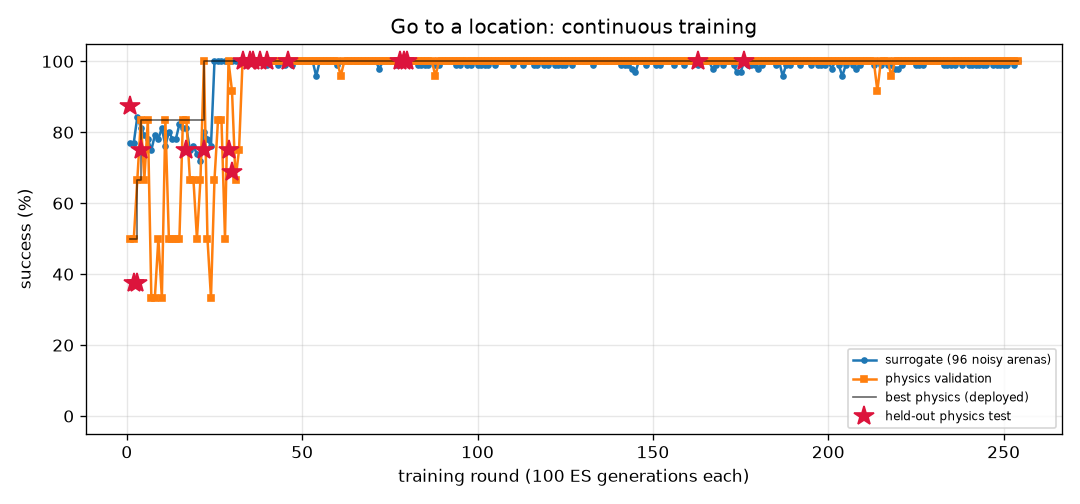
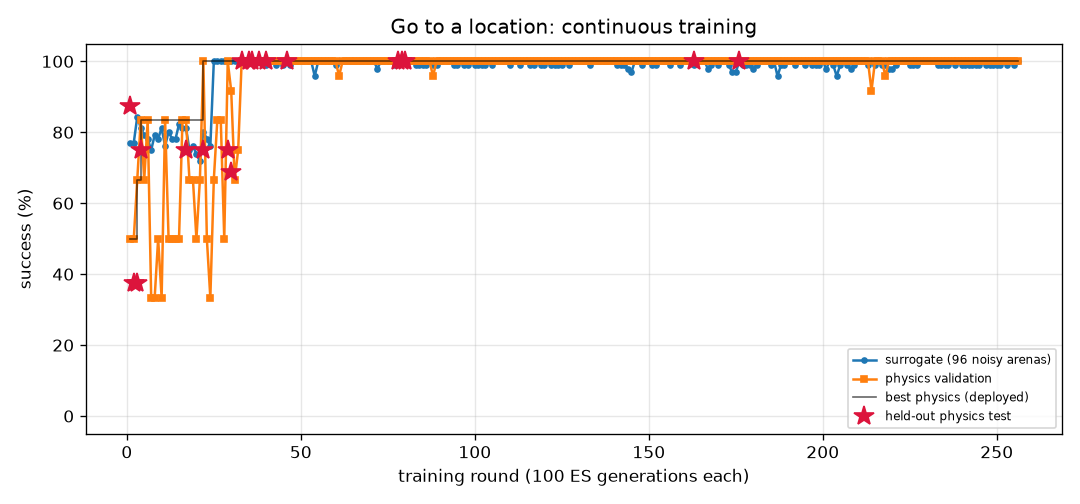
FlyLab: continuous training progress
- walk_forward: optimal, physics val 100% of 24, round 318
- turn: optimal, physics val 100% of 24, round 912
- goto: optimal, physics val 100% of 24, round 256
- odor_seek: optimal, physics val 100% of 24, round 208
- odor_avoid: optimal, physics val 100% of 24, round 822
- light_seek: optimal, physics val 100% of 24, round 451
- light_avoid: optimal, physics val 100% of 24, round 554

diff --git a/projects/09_flylab/training/walk_forward/REPORT.md b/projects/09_flylab/training/walk_forward/REPORT.md
@@ -1,14 +1,14 @@
 # Walk forward (`walk_forward`) — training report
 
-*Auto-generated by `train_brains.py`, last updated 2026-11-07T15:44:13.*
+*Auto-generated by `train_brains.py`, last updated 2026-11-07T19:57:10.*
 
 ![curve](curve.png)
 
 | | |
 |---|---|
-| rounds | 314 |
-| ES generations | 31400 |
-| physics runs | 7550 |
+| rounds | 318 |
+| ES generations | 31800 |
+| physics runs | 7646 |
 | status | **optimal** |
 | best brain | round 116: physics validation **100%** on 24 arenas, surrogate 100% |
 | held-out physics test | **100%** on 32 unseen arenas (95% CI 89%-100%) (errors: [0.13, 0.16, 0.19, 0.16, 0.15, 0.2, 0.17, 0.18, 0.17, 0.19, 0.2, 0.14, 0.17, 0.19, 0.2, 0.2, 0.13, 0.19, 0.16, 0.2, 0.2, 0.16, 0.17, 0.2, 0.13, 0.15, 0.18, 0.14, 0.16, 0.15, 0.19, 0.12]) |
@@ -17,10 +17,6 @@ Physics error per arena: mm from target at the end (< 1.5 and standing still = s
 
 | round | level | gens | sigma | surrogate | physics val | val errors | test | note |
 |---:|---:|---:|---:|---:|---:|---|---:|---|
-| 275 | 3 | 27500 | 0.024 | 100% | 100% | [0.27, 0.27, 0.2, 0.26, 0.27, 0.18, 0.26, 0.24, 0.27, 0.24, 0.17, 0.21, 0.23, 0.18, 0.27, 0.22, 0.26, 0.27, 0.24, 0.27, 0.25, 0.23, 0.2, 0.23] |  |  |
-| 276 | 3 | 27600 | 0.024 | 100% | 100% | [0.05, 0.1, 0.09, 0.08, 0.09, 0.08, 0.05, 0.07, 0.11, 0.16, 0.1, 0.13, 0.1, 0.1, 0.11, 0.13, 0.22, 0.1, 0.27, 0.09, 0.05, 0.11, 0.15, 0.09] |  | restart from best |
-| 277 | 3 | 27700 | 0.024 | 100% | 100% | [0.19, 0.18, 0.16, 0.19, 0.18, 0.14, 0.18, 0.17, 0.18, 0.17, 0.06, 0.14, 0.17, 0.15, 0.19, 0.15, 0.18, 0.18, 0.18, 0.19, 0.18, 0.17, 0.14, 0.18] |  |  |
-| 278 | 3 | 27800 | 0.024 | 100% | 100% | [0.27, 0.29, 0.23, 0.27, 0.29, 0.23, 0.29, 0.25, 0.28, 0.28, 0.22, 0.26, 0.25, 0.23, 0.28, 0.26, 0.27, 0.28, 0.25, 0.28, 0.26, 0.28, 0.26, 0.24] |  |  |
 | 279 | 3 | 27900 | 0.024 | 100% | 100% | [0.14, 0.1, 0.05, 0.12, 0.11, 0.08, 0.12, 0.06, 0.1, 0.06, 0.07, 0.09, 0.09, 0.08, 0.08, 0.13, 0.08, 0.15, 0.06, 0.07, 0.06, 0.11, 0.13, 0.06] |  |  |
 | 280 | 3 | 28000 | 0.024 | 100% | 100% | [0.15, 0.16, 0.13, 0.15, 0.16, 0.14, 0.17, 0.14, 0.17, 0.18, 0.14, 0.2, 0.14, 0.13, 0.15, 0.19, 0.15, 0.16, 0.13, 0.16, 0.14, 0.19, 0.19, 0.14] |  | restart from best |
 | 281 | 3 | 28100 | 0.024 | 99% | 96% | [0.06, 0.15, 0.03, 0.07, 0.15, 0.11, 0.17, 0.21, 0.16, 0.21, 0.07, 0.25, 0.12, 0.01, 0.05, 0.23, 0.05, 0.17, 0.18, 0.09, 0.21, 0.25, 0.27, 0.03] |  |  |
@@ -57,3 +53,7 @@ Physics error per arena: mm from target at the end (< 1.5 and standing still = s
 | 312 | 3 | 31200 | 0.024 | 100% | 100% | [0.27, 0.41, 0.14, 0.27, 0.41, 0.07, 0.43, 0.25, 0.45, 0.48, 0.12, 0.48, 0.24, 0.09, 0.28, 0.47, 0.26, 0.34, 0.24, 0.32, 0.25, 0.49, 0.47, 0.25] |  | restart from best |
 | 313 | 3 | 31300 | 0.024 | 100% | 92% | [0.1, 0.14, 0.19, 0.07, 0.14, 0.1, 0.24, 0.11, 0.13, 0.3, 0.12, 0.33, 0.1, 0.03, 0.08, 0.29, 0.04, 0.16, 0.07, 0.08, 0.06, 0.22, 0.24, 0.1] |  |  |
 | 314 | 3 | 31400 | 0.024 | 100% | 100% | [0.24, 0.23, 0.22, 0.24, 0.23, 0.22, 0.23, 0.23, 0.23, 0.22, 0.21, 0.21, 0.24, 0.22, 0.23, 0.21, 0.24, 0.23, 0.24, 0.23, 0.24, 0.22, 0.2, 0.24] |  |  |
+| 315 | 3 | 31500 | 0.024 | 100% | 100% | [0.23, 0.23, 0.18, 0.23, 0.23, 0.17, 0.23, 0.2, 0.23, 0.22, 0.17, 0.2, 0.2, 0.17, 0.24, 0.21, 0.23, 0.24, 0.2, 0.24, 0.21, 0.21, 0.2, 0.2] |  |  |
+| 316 | 3 | 31600 | 0.024 | 100% | 100% | [0.26, 0.34, 0.3, 0.26, 0.33, 0.31, 0.34, 0.29, 0.34, 0.37, 0.32, 0.38, 0.29, 0.31, 0.27, 0.38, 0.27, 0.3, 0.29, 0.28, 0.28, 0.37, 0.37, 0.29] |  | restart from best |
+| 317 | 3 | 31700 | 0.024 | 100% | 100% | [0.08, 0.13, 0.07, 0.08, 0.13, 0.07, 0.12, 0.13, 0.16, 0.21, 0.08, 0.15, 0.08, 0.06, 0.09, 0.23, 0.08, 0.15, 0.08, 0.15, 0.08, 0.17, 0.26, 0.08] |  |  |
+| 318 | 3 | 31800 | 0.024 | 99% | 100% | [0.24, 0.26, 0.18, 0.25, 0.26, 0.16, 0.26, 0.21, 0.26, 0.23, 0.15, 0.21, 0.21, 0.17, 0.25, 0.22, 0.24, 0.26, 0.22, 0.25, 0.23, 0.23, 0.21, 0.21] |  |  |

diff --git a/projects/09_flylab/training/goto/REPORT.md b/projects/09_flylab/training/goto/REPORT.md
@@ -1,14 +1,14 @@
 # Go to a location (`goto`) — training report
 
-*Auto-generated by `train_brains.py`, last updated 2026-11-07T17:03:13.*
+*Auto-generated by `train_brains.py`, last updated 2026-11-07T19:50:02.*
 
 ![curve](curve.png)
 
 | | |
 |---|---|
-| rounds | 254 |
-| ES generations | 25400 |
-| physics runs | 6046 |
+| rounds | 256 |
+| ES generations | 25600 |
+| physics runs | 6094 |
 | status | **optimal** |
 | best brain | round 176: physics validation **100%** on 24 arenas, surrogate 100% |
 | held-out physics test | **100%** on 32 unseen arenas (95% CI 89%-100%) (errors: [0.2, 0.32, 0.19, 0.24, 0.18, 0.2, 0.19, 0.17, 0.22, 0.23, 0.23, 0.26, 0.2, 0.19, 0.24, 0.23, 0.22, 0.24, 0.2, 0.22, 0.2, 0.2, 0.26, 0.19, 0.22, 0.18, 0.26, 0.22, 0.2, 0.26, 0.23, 0.23]) |
@@ -17,8 +17,6 @@ Physics error per arena: mm from target at the end (< 1.5 and standing still = s
 
 | round | level | gens | sigma | surrogate | physics val | val errors | test | note |
 |---:|---:|---:|---:|---:|---:|---|---:|---|
-| 215 | 3 | 21500 | 0.024 | 99% | 100% | [0.48, 0.45, 0.35, 0.43, 0.34, 0.39, 0.5, 0.42, 0.44, 0.36, 0.38, 0.41, 0.45, 0.32, 0.39, 0.38, 0.48, 0.38, 0.34, 0.45, 0.35, 0.38, 0.47, 0.41] |  |  |
-| 216 | 3 | 21600 | 0.025 | 100% | 100% | [0.5, 0.51, 0.49, 0.39, 0.38, 0.4, 0.52, 0.45, 0.45, 0.37, 0.36, 0.38, 0.47, 0.38, 0.42, 0.45, 0.5, 0.4, 0.35, 0.44, 0.44, 0.36, 0.49, 0.38] |  | restart from best |
 | 217 | 3 | 21700 | 0.024 | 99% | 100% | [0.52, 0.53, 0.55, 0.55, 0.41, 0.49, 0.55, 0.53, 0.54, 0.44, 0.44, 0.52, 0.53, 0.42, 0.42, 0.47, 0.56, 0.49, 0.42, 0.53, 0.43, 0.42, 0.55, 0.51] |  |  |
 | 218 | 3 | 21800 | 0.025 | 99% | 96% | [0.44, 0.38, 0.36, 0.27, 0.24, 0.29, 0.39, 0.3, 0.34, 0.24, 0.25, 0.27, 0.35, 0.6, 0.3, 0.26, 0.35, 0.35, 0.26, 0.34, 0.27, 0.12, 0.35, 0.27] |  |  |
 | 219 | 3 | 21900 | 0.025 | 98% | 100% | [0.64, 0.64, 0.7, 0.59, 0.57, 0.59, 0.66, 0.68, 0.67, 0.56, 0.57, 0.57, 0.7, 0.58, 0.59, 0.67, 0.7, 0.64, 0.56, 0.65, 0.67, 0.56, 0.69, 0.59] |  |  |
@@ -57,3 +55,5 @@ Physics error per arena: mm from target at the end (< 1.5 and standing still = s
 | 252 | 3 | 25200 | 0.025 | 100% | 100% | [0.56, 0.61, 0.6, 0.55, 0.55, 0.5, 0.58, 0.54, 0.56, 0.55, 0.52, 0.55, 0.62, 0.49, 0.65, 0.59, 0.62, 0.55, 0.54, 0.6, 0.55, 0.53, 0.62, 0.54] |  | restart from best |
 | 253 | 3 | 25300 | 0.024 | 99% | 100% | [0.7, 0.62, 0.51, 0.52, 0.45, 0.51, 0.62, 0.56, 0.59, 0.47, 0.49, 0.52, 0.64, 0.43, 0.53, 0.53, 0.66, 0.6, 0.47, 0.57, 0.5, 0.46, 0.63, 0.51] |  |  |
 | 254 | 3 | 25400 | 0.025 | 100% | 100% | [0.35, 0.35, 0.34, 0.27, 0.27, 0.24, 0.37, 0.26, 0.35, 0.28, 0.26, 0.26, 0.32, 0.27, 0.34, 0.33, 0.36, 0.26, 0.25, 0.32, 0.3, 0.28, 0.33, 0.26] |  |  |
+| 255 | 3 | 25500 | 0.024 | 99% | 100% | [0.58, 0.51, 0.52, 0.39, 0.37, 0.41, 0.55, 0.42, 0.38, 0.37, 0.35, 0.38, 0.5, 0.32, 0.42, 0.4, 0.52, 0.47, 0.37, 0.45, 0.4, 0.35, 0.48, 0.41] |  |  |
+| 256 | 3 | 25600 | 0.025 | 100% | 100% | [0.32, 0.39, 0.37, 0.39, 0.37, 0.36, 0.37, 0.36, 0.36, 0.39, 0.35, 0.38, 0.35, 0.37, 0.43, 0.45, 0.37, 0.37, 0.39, 0.42, 0.41, 0.39, 0.35, 0.38] |  | restart from best |

diff --git a/projects/09_flylab/training/light_seek/REPORT.md b/projects/09_flylab/training/light_seek/REPORT.md
@@ -1,14 +1,14 @@
 # Walk toward light (`light_seek`) — training report
 
-*Auto-generated by `train_brains.py`, last updated 2026-11-07T19:05:28.*
+*Auto-generated by `train_brains.py`, last updated 2026-11-07T19:20:58.*
 
 ![curve](curve.png)
 
 | | |
 |---|---|
-| rounds | 450 |
-| ES generations | 45000 |
-| physics runs | 7680 |
+| rounds | 451 |
+| ES generations | 45100 |
+| physics runs | 7704 |
 | status | **optimal** |
 | best brain | round 375: physics validation **100%** on 24 arenas, surrogate 100% |
 | held-out physics test | **100%** on 32 unseen arenas (95% CI 89%-100%) (errors: [0.57, 0.54, 0.53, 0.57, 0.55, 0.56, 0.59, 0.56, 0.53, 0.56, 0.71, 0.56, 0.55, 0.54, 0.53, 0.54, 0.54, 0.55, 0.52, 0.65, 0.64, 0.7, 0.58, 0.57, 0.6, 0.62, 0.55, 0.88, 0.54, 0.52, 0.62, 0.57]) |
@@ -17,7 +17,6 @@ Physics error per arena: mm from target at the end (< 1.5 and standing still = s
 
 | round | level | gens | sigma | surrogate | physics val | val errors | test | note |
 |---:|---:|---:|---:|---:|---:|---|---:|---|
-| 411 | 3 | 41100 | 0.024 | 100% | 100% | [0.54, 0.62, 0.55, 1.15, 0.59, 0.58, 0.56, 0.63, 0.62, 0.6, 0.82, 0.6, 0.49, 0.57, 0.62, 0.51, 0.54, 0.53, 0.64, 0.52, 0.62, 0.69, 0.55, 0.75] |  | restart from best |
 | 412 | 3 | 41200 | 0.024 | 100% | 92% | [0.63, 0.61, 0.93, 1.04, 0.59, 0.56, 0.54, 0.57, 0.56, 0.6, 1.97, 0.58, 0.67, 0.55, 1.62, 0.79, 0.67, 0.58, 0.56, 0.58, 0.56, 0.62, 0.54, 0.63] |  |  |
 | 413 | 3 | 41300 | 0.024 | 100% | 100% | [0.53, 0.49, 0.51, 0.9, 0.5, 0.51, 0.52, 0.56, 0.6, 0.51, 0.88, 0.65, 0.6, 0.56, 0.91, 0.91, 0.57, 0.59, 0.52, 0.88, 0.61, 0.64, 0.58, 0.5] |  |  |
 | 414 | 3 | 41400 | 0.024 | 100% | 92% | [0.58, 0.69, 0.5, 0.46, 0.57, 0.58, 1.39, 0.72, 0.64, 0.54, 0.64, 0.47, 1.16, 0.62, 1.09, 0.52, 0.58, 0.84, 0.6, 0.6, 0.48, 0.57, 0.62, 1.58] |  |  |
@@ -57,3 +56,4 @@ Physics error per arena: mm from target at the end (< 1.5 and standing still = s
 | 448 | 3 | 44800 | 0.024 | 100% | 96% | [1.02, 0.48, 0.55, 0.66, 0.5, 1.09, 1.06, 0.63, 0.52, 0.49, 1.53, 0.53, 0.5, 0.55, 0.5, 0.51, 0.49, 0.57, 0.67, 0.57, 0.55, 0.54, 0.6, 0.49] |  |  |
 | 449 | 3 | 44900 | 0.024 | 100% | 100% | [0.74, 0.65, 0.53, 0.71, 1.01, 0.55, 0.65, 0.64, 0.58, 0.71, 0.55, 0.6, 1.1, 0.62, 0.79, 0.61, 0.59, 0.77, 0.53, 1.37, 0.79, 0.68, 0.59, 0.61] |  |  |
 | 450 | 3 | 45000 | 0.024 | 100% | 96% | [0.78, 0.6, 0.75, 0.74, 0.62, 0.61, 0.54, 0.67, 0.55, 0.6, 0.54, 0.81, 0.58, 2.45, 0.7, 0.64, 0.55, 0.61, 0.55, 0.68, 0.64, 0.67, 0.68, 0.69] |  |  |
+| 451 | 3 | 45100 | 0.024 | 100% | 100% | [0.62, 0.56, 0.63, 1.5, 0.62, 0.61, 0.51, 0.55, 0.59, 0.52, 0.56, 0.59, 0.54, 0.59, 1.03, 0.5, 0.49, 0.65, 0.6, 0.65, 1.0, 0.52, 0.58, 0.51] |  | restart from best |

diff --git a/projects/09_flylab/training/TRAINING.md b/projects/09_flylab/training/TRAINING.md
@@ -1,15 +1,15 @@
 # FlyLab brains — continuous training log
 
-*Auto-generated by `train_brains.py`, last updated 2026-11-07T19:14:50.*
+*Auto-generated by `train_brains.py`, last updated 2026-11-07T19:57:10.*
 
 Every skill has its own brain and its own training process: surrogate ES rounds, physics validation in MuJoCo, keep-the-best selection, and a held-out physics test that is never used for selection. See each skill's report for its full round-by-round history. Mastery is progressive: passing a level (100% physics validation, >=95% surrogate) doubles the validation and test arena sets; a brain is **optimal** once it holds up at level 3 (>=95% of 24 validation arenas) AND scores >=90% on the 32 held-out test arenas. Test columns show 95% Wilson confidence intervals.
 
 | skill | rounds | ES generations | physics runs | surrogate | physics val | **physics test** | status |
 |---|---:|---:|---:|---:|---:|---:|---|
-| [Walk forward](walk_forward/REPORT.md) | 314 | 31400 | 7550 | 100% | 100% of 24 | 100% of 32 (CI 89-100%) | **optimal** |
+| [Walk forward](walk_forward/REPORT.md) | 318 | 31800 | 7646 | 100% | 100% of 24 | 100% of 32 (CI 89-100%) | **optimal** |
 | [Turn in place](turn/REPORT.md) | 912 | 91200 | 22134 | 100% | 100% of 24 | 97% of 32 (CI 84-99%) | **optimal** |
-| [Go to a location](goto/REPORT.md) | 254 | 25400 | 6046 | 100% | 100% of 24 | 100% of 32 (CI 89-100%) | **optimal** |
+| [Go to a location](goto/REPORT.md) | 256 | 25600 | 6094 | 100% | 100% of 24 | 100% of 32 (CI 89-100%) | **optimal** |
 | [Find food by smell](odor_seek/REPORT.md) | 208 | 20800 | 4422 | 100% | 100% of 24 | 100% of 32 (CI 89-100%) | **optimal** |
 | [Escape a bad smell](odor_avoid/REPORT.md) | 822 | 82200 | 17034 | 97% | 100% of 24 | 97% of 32 (CI 84-99%) | **optimal** |
-| [Walk toward light](light_seek/REPORT.md) | 450 | 45000 | 7680 | 100% | 100% of 24 | 100% of 32 (CI 89-100%) | **optimal** |
+| [Walk toward light](light_seek/REPORT.md) | 451 | 45100 | 7704 | 100% | 100% of 24 | 100% of 32 (CI 89-100%) | **optimal** |
 | [Hide from light](light_avoid/REPORT.md) | 554 | 55400 | 13568 | 100% | 100% of 24 | 100% of 32 (CI 89-100%) | **optimal** |
